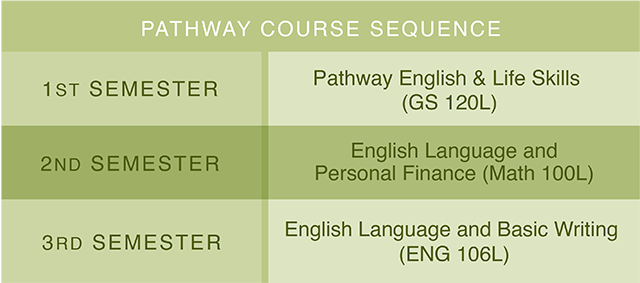
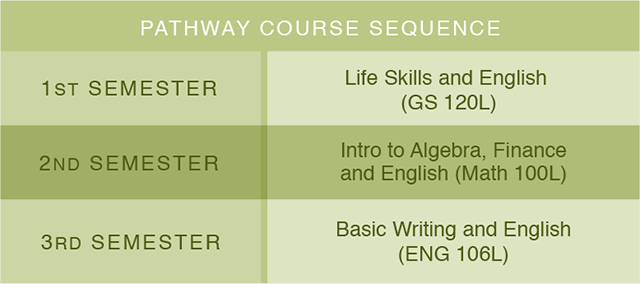
BUILD

diff --git a/pages/what_is_pathway/what_is_pathway.html b/pages/what_is_pathway/what_is_pathway.html
@@ -116,7 +116,7 @@
             <p><a href="s_version/HPW.html"><img src="../../img/wip/icons/button_standard.png"></a><br>
 <span class="caption">For students who are proficient in English.</span></p>
             <p><a href="l_version/HPW.html"><img src="../../img/wip/icons/button_lversion.png"></a><br>
-<span class="caption">For students who a have low to intermediate English proficiency.</span></p>
+<span class="caption">For students who have intermediate-low English proficiency.</span></p>
 			</div>	
 
 				<div id="video-info-block">
@@ -145,7 +145,8 @@
 					</li>
 					<li>
 						<a class="no-highlight" href="l_version/HPW.html"><img src="../../img/wip/icons/button_lversion.png"></a>
-						<p>For students who <strong> have low to intermediate English proficiency</strong>, the L version includes academic courses that incorporate English-language instruction as a main component of the coursework. Students meet weekly with a native English speaker throughout the program to improve their English skills. All parts of the program are facilitated entirely in English.</p>
+						<p>For students who <strong>have intermediate-low* English proficiency</strong>, the L&nbsp;version includes academic courses that incorporate English-language instruction as a main component of the coursework. Students meet weekly with a native English speaker throughout the program to improve their English skills. All parts of the program are facilitated entirely in English.</p>
+						<p style="font-style:italic;">*The intermediate-low language learner understands and communicates at the sentence level. An English proficiency assessment may be required to determine a student’s eligibility for Pathway.</p>
 					</li>
 				</ul>
 			</div>

diff --git a/pages/what_is_pathway/l_version/course_descriptions.html b/pages/what_is_pathway/l_version/course_descriptions.html
@@ -100,7 +100,7 @@
       </div>
       <div class="pf-section no-icon">
         <h4 class="c-heading turquoise">Courses</h4>
-        <h5 class="c-heading2 turquoise">GS 120L PATHWAY ENGLISH AND LIFE SKILLS</h5>
+        <h5 class="c-heading2 turquoise">GS 120L LIFE SKILLS AND ENGLISH</h5>
         <h6 class="c-heading3 turquoise">5 CREDITS</h6>
        
         <p>GS 120L teaches basic life skills that can lead to success in both
@@ -113,7 +113,7 @@
           vocabulary, as well as mechanics and grammar, are applied in
           speaking, listening, reading, and writing.</p>
         <br>
-        <h5 class="c-heading2 turquoise">ENG 106L ENGLISH LANGUAGE AND BASIC WRITING</h5>
+        <h5 class="c-heading2 turquoise">ENG 106L BASIC WRITING AND ENGLISH</h5>
         <h6 class="c-heading3 turquoise">5 CREDITS</h6>
        
         <p>ENG 106L teaches basic writing conventions. Topics in this course
@@ -125,7 +125,7 @@
           major verb tenses and sentence structure patterns and their
           components.</p>
         <br>
-        <h5 class="c-heading2 turquoise">MATH 100L ENGLISH LANGUAGE AND PERSONAL FINANCE</h5>
+        <h5 class="c-heading2 turquoise">MATH 100L INTRO TO ALGEBRA, FINANCE, AND ENGLISH</h5>
         <h6 class="c-heading3 turquoise">5 CREDITS</h6>
      
         <p>MATH 100L is designed to help students recap, learn, and retain the

diff --git a/pages/what_is_pathway/l_version/cost.html b/pages/what_is_pathway/l_version/cost.html
@@ -111,7 +111,7 @@
 				<img src="../../../img/wip/icons/lversion.png" alt="standardLogo">
 				<h1 id="Standard" class="page-title">L Version</h1>
 				
-					<p class="page-summary">For students who have low to intermediate English proficiency</p></div>
+					<p class="page-summary">For students who have intermediate-low English proficiency</p></div>
 			<div class="pf-section">
 				<div class="pf-page-header">
 					<img src="../../../img/wip/icons/piggy.png" alt="piggy">
@@ -133,7 +133,7 @@
 				<p>Pathway students who choose to continue their education on campus after Pathway will pay regular on-campus tuition.</p>
 				
 				<h3 id="FinancialAid" class="p-heading turquoise">Financial Aid</h3>
-				<p>Financial aid is not available for Pathway students during their first year. However, U.S. students who have a high school diploma or GED may apply for federal financial aid after they complete Pathway and if they are accepted into a degree-seeking program.</p>
+				<p>Financial aid is not available for Pathway students. However, U.S. students who have a high school diploma or GED may apply for federal financial aid after they complete Pathway and if they are accepted into a degree-seeking program.</p>
 			</div>
 		</div>
 

diff --git a/pages/what_is_pathway/s_version/course_descriptions.html b/pages/what_is_pathway/s_version/course_descriptions.html
@@ -100,7 +100,7 @@
       </div>
       <div class="pf-section no-icon">
         <h4 class="c-heading red">Academic Courses</h4>
-        <h5 class="c-heading2 red">GS 120 PATHWAY LIFE SKILLS</h5>
+        <h5 class="c-heading2 red">GS 120 LIFE SKILLS</h5>
         <h6 class="c-heading3 red">3 CREDITS</h6>
        
         <p>GS 120 teaches basic life skills that can lead to success in both
@@ -119,7 +119,7 @@
           rhetorical modes and purposes; audience analysis; the composing
           process; and editing.</p>
         <br>
-        <h5 class="c-heading2 red">MATH 100G PERSONAL FINANCE</h5>
+        <h5 class="c-heading2 red">MATH 100G INTRO TO ALGEBRA AND FINANCE</h5>
         <h6 class="c-heading3 red">3 CREDITS</h6>
      
         <p>MATH 100G is designed to help students recap, learn, and retain the

diff --git a/pages/what_is_pathway/s_version/cost.html b/pages/what_is_pathway/s_version/cost.html
@@ -136,7 +136,7 @@
 				<p>Pathway students who choose to continue their education on campus after Pathway will pay regular on-campus tuition.</p>
 				
 				<h3 id="FinancialAid" class="p-heading red">Financial Aid</h3>
-				<p>Financial aid is not available for Pathway students during their first year. However, U.S. students who have a high school diploma or GED may apply for federal financial aid after they complete Pathway and if they are accepted into a degree-seeking program.</p>
+				<p>Financial aid is not available for Pathway students. However, U.S. students who have a high school diploma or GED may apply for federal financial aid after they complete Pathway and if they are accepted into a degree-seeking program.</p>
 			</div>
 		</div>
 

diff --git a/pages/what_is_pathway/l_version/service_missionaries.html b/pages/what_is_pathway/l_version/service_missionaries.html
@@ -112,7 +112,7 @@
 			<div class="hero pf-page-header">
 				<img src="../../../img/wip/icons/lversion.png" alt="L-VersionLogo"> 
 				<h1 id="Standard" class="page-title">L Version</h1>
-				<p class="page-summary">For students who have low to intermediate English proficiency</p></div>
+				<p class="page-summary">For students who have intermediate-low English proficiency</p></div>
 			<div class="pf-section" "main-content">
 				<div class="pf-page-header">
 					<img src="../../../img/wip/icons/missionaries.png" width="46" height="55" alt="missionaries">

diff --git a/pages/what_is_pathway/l_version/HPW.html b/pages/what_is_pathway/l_version/HPW.html
@@ -111,7 +111,7 @@
 			<div class="hero pf-page-header">
 				<img src="../../../img/wip/icons/lversion.png" alt="L-VersionLogo">
 				<h1 id="Standard" class="page-title">L Version</h1>
-				<p class="page-summary">For students who have low to intermediate English proficiency</p></div>
+				<p class="page-summary">For students who have intermediate-low English proficiency</p></div>
 			<div class="pf-section">
 				<div class="pf-page-header">
 					<img src="../../../img/wip/icons/gear.png" width="45" height="46" alt="gear">

diff --git a/pages/what_is_pathway/l_version/cost_calc_tuition.html b/pages/what_is_pathway/l_version/cost_calc_tuition.html
@@ -114,7 +114,7 @@
 			<div class="hero pf-page-header">
 				<img src="../../../img/wip/icons/lversion.png" alt="standardLogo">
 				<h1 id="Standard" class="page-title">L Version</h1>
-				<p class="page-summary">For students who have low to intermediate English proficiency</p></div>
+				<p class="page-summary">For students who have intermediate-low English proficiency</p></div>
 			<div class="pf-section">
 				<div class="pf-page-header">
 					<img src="../../../img/wip/icons/piggy.png" alt="piggy">

diff --git a/pages/what_is_pathway/l_version/degree.html b/pages/what_is_pathway/l_version/degree.html
@@ -114,7 +114,7 @@
 				<img src="../../../img/wip/icons/lversion.png" alt="standardLogo">
 				<h1 id="Standard" class="page-title">L Version</h1>
 
-					<p class="page-summary">For students who have low to intermediate English proficiency</p></div>
+					<p class="page-summary">For students who have intermediate-low English proficiency</p></div>
 			<div class="pf-section">
 				<div class="pf-page-header">
 					<img src="../../../img/wip/icons/cap.png" alt="cap" width="45" height="46">

diff --git a/pages/what_is_pathway/l_version/admission.html b/pages/what_is_pathway/l_version/admission.html
@@ -112,7 +112,7 @@
 <div class="hero pf-page-header">
 	<img src="../../../img/wip/icons/lversion.png" alt="standardLogo">
 	<h1 id="Standard" class="page-title">L Version</h1>
-	<p class="page-summary">For students who have low to intermediate English proficiency</p></div>
+	<p class="page-summary">For students who have intermediate-low English proficiency</p></div>
 <div class="pf-section">
 	<div class="pf-page-header">
 		<img src="../../../img/wip/icons/checklist.png" alt="checklist">

diff --git a/pages/what_is_pathway/l_version/speaking_partners.html b/pages/what_is_pathway/l_version/speaking_partners.html
@@ -112,7 +112,7 @@
 			<div class="hero pf-page-header">
 				<img src="../../../img/wip/icons/lversion.png" alt="standardLogo">
 				<h1 id="Standard" class="page-title">L Version</h1>
-				<p class="page-summary">For students who have low to intermediate English proficiency</p> 
+				<p class="page-summary">For students who have intermediate-low English proficiency</p> 
 			</div>
 			<div class="pf-section">
 				<div class="pf-page-header">
